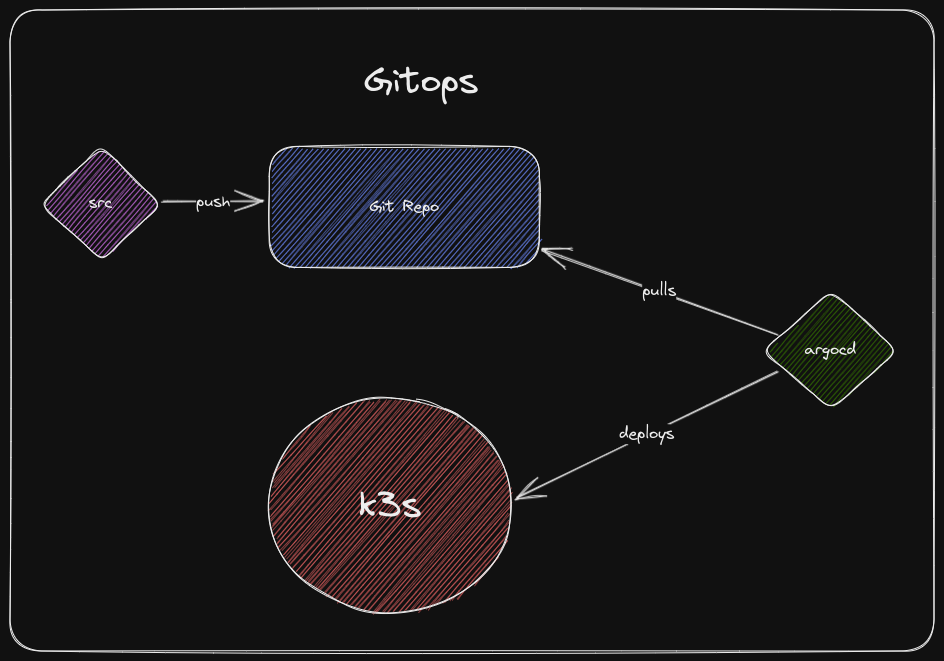
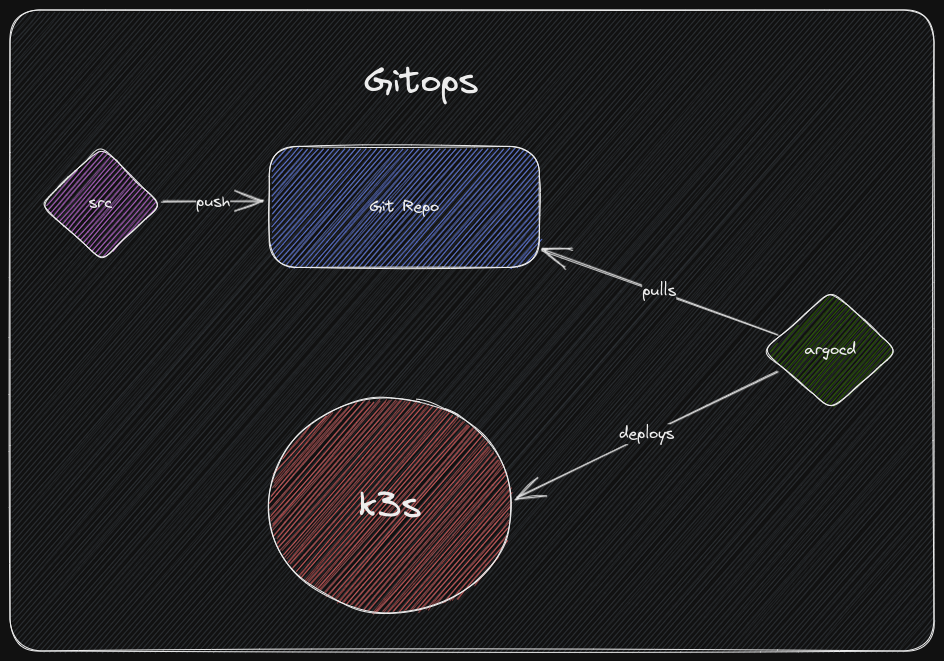
updated docs

diff --git a/docs/Excalidraw/gitops.md b/docs/Excalidraw/gitops.md
@@ -34,8 +34,8 @@ deploys ^ffl88FOX
 	"elements": [
 		{
 			"type": "rectangle",
-			"version": 144,
-			"versionNonce": 1485089153,
+			"version": 146,
+			"versionNonce": 1430360257,
 			"isDeleted": false,
 			"id": "Jr-MTa4Jvw-fHlAUVC4ge",
 			"fillStyle": "hachure",
@@ -47,7 +47,7 @@ deploys ^ffl88FOX
 			"x": -424.075569584724,
 			"y": -441.58358989950784,
 			"strokeColor": "#000000",
-			"backgroundColor": "transparent",
+			"backgroundColor": "#ced4da",
 			"width": 924,
 			"height": 641,
 			"seed": 1803660349,
@@ -56,7 +56,7 @@ deploys ^ffl88FOX
 				"type": 3
 			},
 			"boundElements": [],
-			"updated": 1682545093709,
+			"updated": 1682545572587,
 			"link": null,
 			"locked": false
 		},
@@ -435,79 +435,6 @@ deploys ^ffl88FOX
 			"baseline": 14
 		},
 		{
-			"type": "ellipse",
-			"version": 117,
-			"versionNonce": 1017822317,
-			"isDeleted": false,
-			"id": "DgGiR_mS6vZ2FDqEMHlvY",
-			"fillStyle": "hachure",
-			"strokeWidth": 1,
-			"strokeStyle": "solid",
-			"roughness": 1,
-			"opacity": 100,
-			"angle": 0,
-			"x": -165.0916153599241,
-			"y": -53.91717979901571,
-			"strokeColor": "#000000",
-			"backgroundColor": "#fa5252",
-			"width": 243,
-			"height": 215,
-			"seed": 1176153741,
-			"groupIds": [],
-			"roundness": {
-				"type": 2
-			},
-			"boundElements": [
-				{
-					"type": "text",
-					"id": "Yi8IxtD5"
-				},
-				{
-					"id": "4nyMsX075Yv1S7o89XaMr",
-					"type": "arrow"
-				}
-			],
-			"updated": 1682527867793,
-			"link": null,
-			"locked": false
-		},
-		{
-			"type": "text",
-			"version": 26,
-			"versionNonce": 1305214499,
-			"isDeleted": false,
-			"id": "Yi8IxtD5",
-			"fillStyle": "hachure",
-			"strokeWidth": 1,
-			"strokeStyle": "solid",
-			"roughness": 1,
-			"opacity": 100,
-			"angle": 0,
-			"x": -74.3031010538748,
-			"y": 31.068841223430425,
-			"strokeColor": "#000000",
-			"backgroundColor": "transparent",
-			"width": 61.59602355957031,
-			"height": 45,
-			"seed": 81639203,
-			"groupIds": [],
-			"roundness": null,
-			"boundElements": [],
-			"updated": 1682527795047,
-			"link": null,
-			"locked": false,
-			"fontSize": 36,
-			"fontFamily": 1,
-			"text": "k3s",
-			"rawText": "k3s",
-			"textAlign": "center",
-			"verticalAlign": "middle",
-			"containerId": "DgGiR_mS6vZ2FDqEMHlvY",
-			"originalText": "k3s",
-			"lineHeight": 1.25,
-			"baseline": 32
-		},
-		{
 			"type": "arrow",
 			"version": 364,
 			"versionNonce": 402580719,
@@ -671,13 +598,122 @@ deploys ^ffl88FOX
 			"originalText": "src",
 			"lineHeight": 1.25,
 			"baseline": 14
+		},
+		{
+			"type": "ellipse",
+			"version": 118,
+			"versionNonce": 1821578369,
+			"isDeleted": false,
+			"id": "DgGiR_mS6vZ2FDqEMHlvY",
+			"fillStyle": "hachure",
+			"strokeWidth": 1,
+			"strokeStyle": "solid",
+			"roughness": 1,
+			"opacity": 100,
+			"angle": 0,
+			"x": -165.0916153599241,
+			"y": -53.91717979901571,
+			"strokeColor": "#000000",
+			"backgroundColor": "#fa5252",
+			"width": 243,
+			"height": 215,
+			"seed": 1176153741,
+			"groupIds": [],
+			"roundness": {
+				"type": 2
+			},
+			"boundElements": [
+				{
+					"type": "text",
+					"id": "Yi8IxtD5"
+				},
+				{
+					"id": "4nyMsX075Yv1S7o89XaMr",
+					"type": "arrow"
+				}
+			],
+			"updated": 1682545578745,
+			"link": null,
+			"locked": false
+		},
+		{
+			"type": "text",
+			"version": 27,
+			"versionNonce": 691482639,
+			"isDeleted": false,
+			"id": "Yi8IxtD5",
+			"fillStyle": "hachure",
+			"strokeWidth": 1,
+			"strokeStyle": "solid",
+			"roughness": 1,
+			"opacity": 100,
+			"angle": 0,
+			"x": -74.3031010538748,
+			"y": 31.068841223430425,
+			"strokeColor": "#000000",
+			"backgroundColor": "transparent",
+			"width": 61.59602355957031,
+			"height": 45,
+			"seed": 81639203,
+			"groupIds": [],
+			"roundness": null,
+			"boundElements": [],
+			"updated": 1682545578745,
+			"link": null,
+			"locked": false,
+			"fontSize": 36,
+			"fontFamily": 1,
+			"text": "k3s",
+			"rawText": "k3s",
+			"textAlign": "center",
+			"verticalAlign": "middle",
+			"containerId": "DgGiR_mS6vZ2FDqEMHlvY",
+			"originalText": "k3s",
+			"lineHeight": 1.25,
+			"baseline": 32
+		},
+		{
+			"id": "mSbkUvxk",
+			"type": "text",
+			"x": -384.2184267275811,
+			"y": 101.95212438620644,
+			"width": 8.000015258789062,
+			"height": 20,
+			"angle": 0,
+			"strokeColor": "#000000",
+			"backgroundColor": "transparent",
+			"fillStyle": "hachure",
+			"strokeWidth": 1,
+			"strokeStyle": "solid",
+			"roughness": 1,
+			"opacity": 100,
+			"groupIds": [],
+			"roundness": null,
+			"seed": 888544513,
+			"version": 2,
+			"versionNonce": 1388769167,
+			"isDeleted": true,
+			"boundElements": null,
+			"updated": 1682545562961,
+			"link": null,
+			"locked": false,
+			"text": "",
+			"rawText": "",
+			"fontSize": 16,
+			"fontFamily": 1,
+			"textAlign": "left",
+			"verticalAlign": "top",
+			"baseline": 14,
+			"containerId": null,
+			"originalText": "",
+			"lineHeight": 1.25
 		}
 	],
 	"appState": {
 		"theme": "dark",
 		"viewBackgroundColor": "#ffffff",
 		"currentItemStrokeColor": "#000000",
-		"currentItemBackgroundColor": "transparent",
+		"currentItemBackgroundColor": "#ced4da",
 		"currentItemFillStyle": "hachure",
 		"currentItemStrokeWidth": 1,
 		"currentItemStrokeStyle": "solid",
